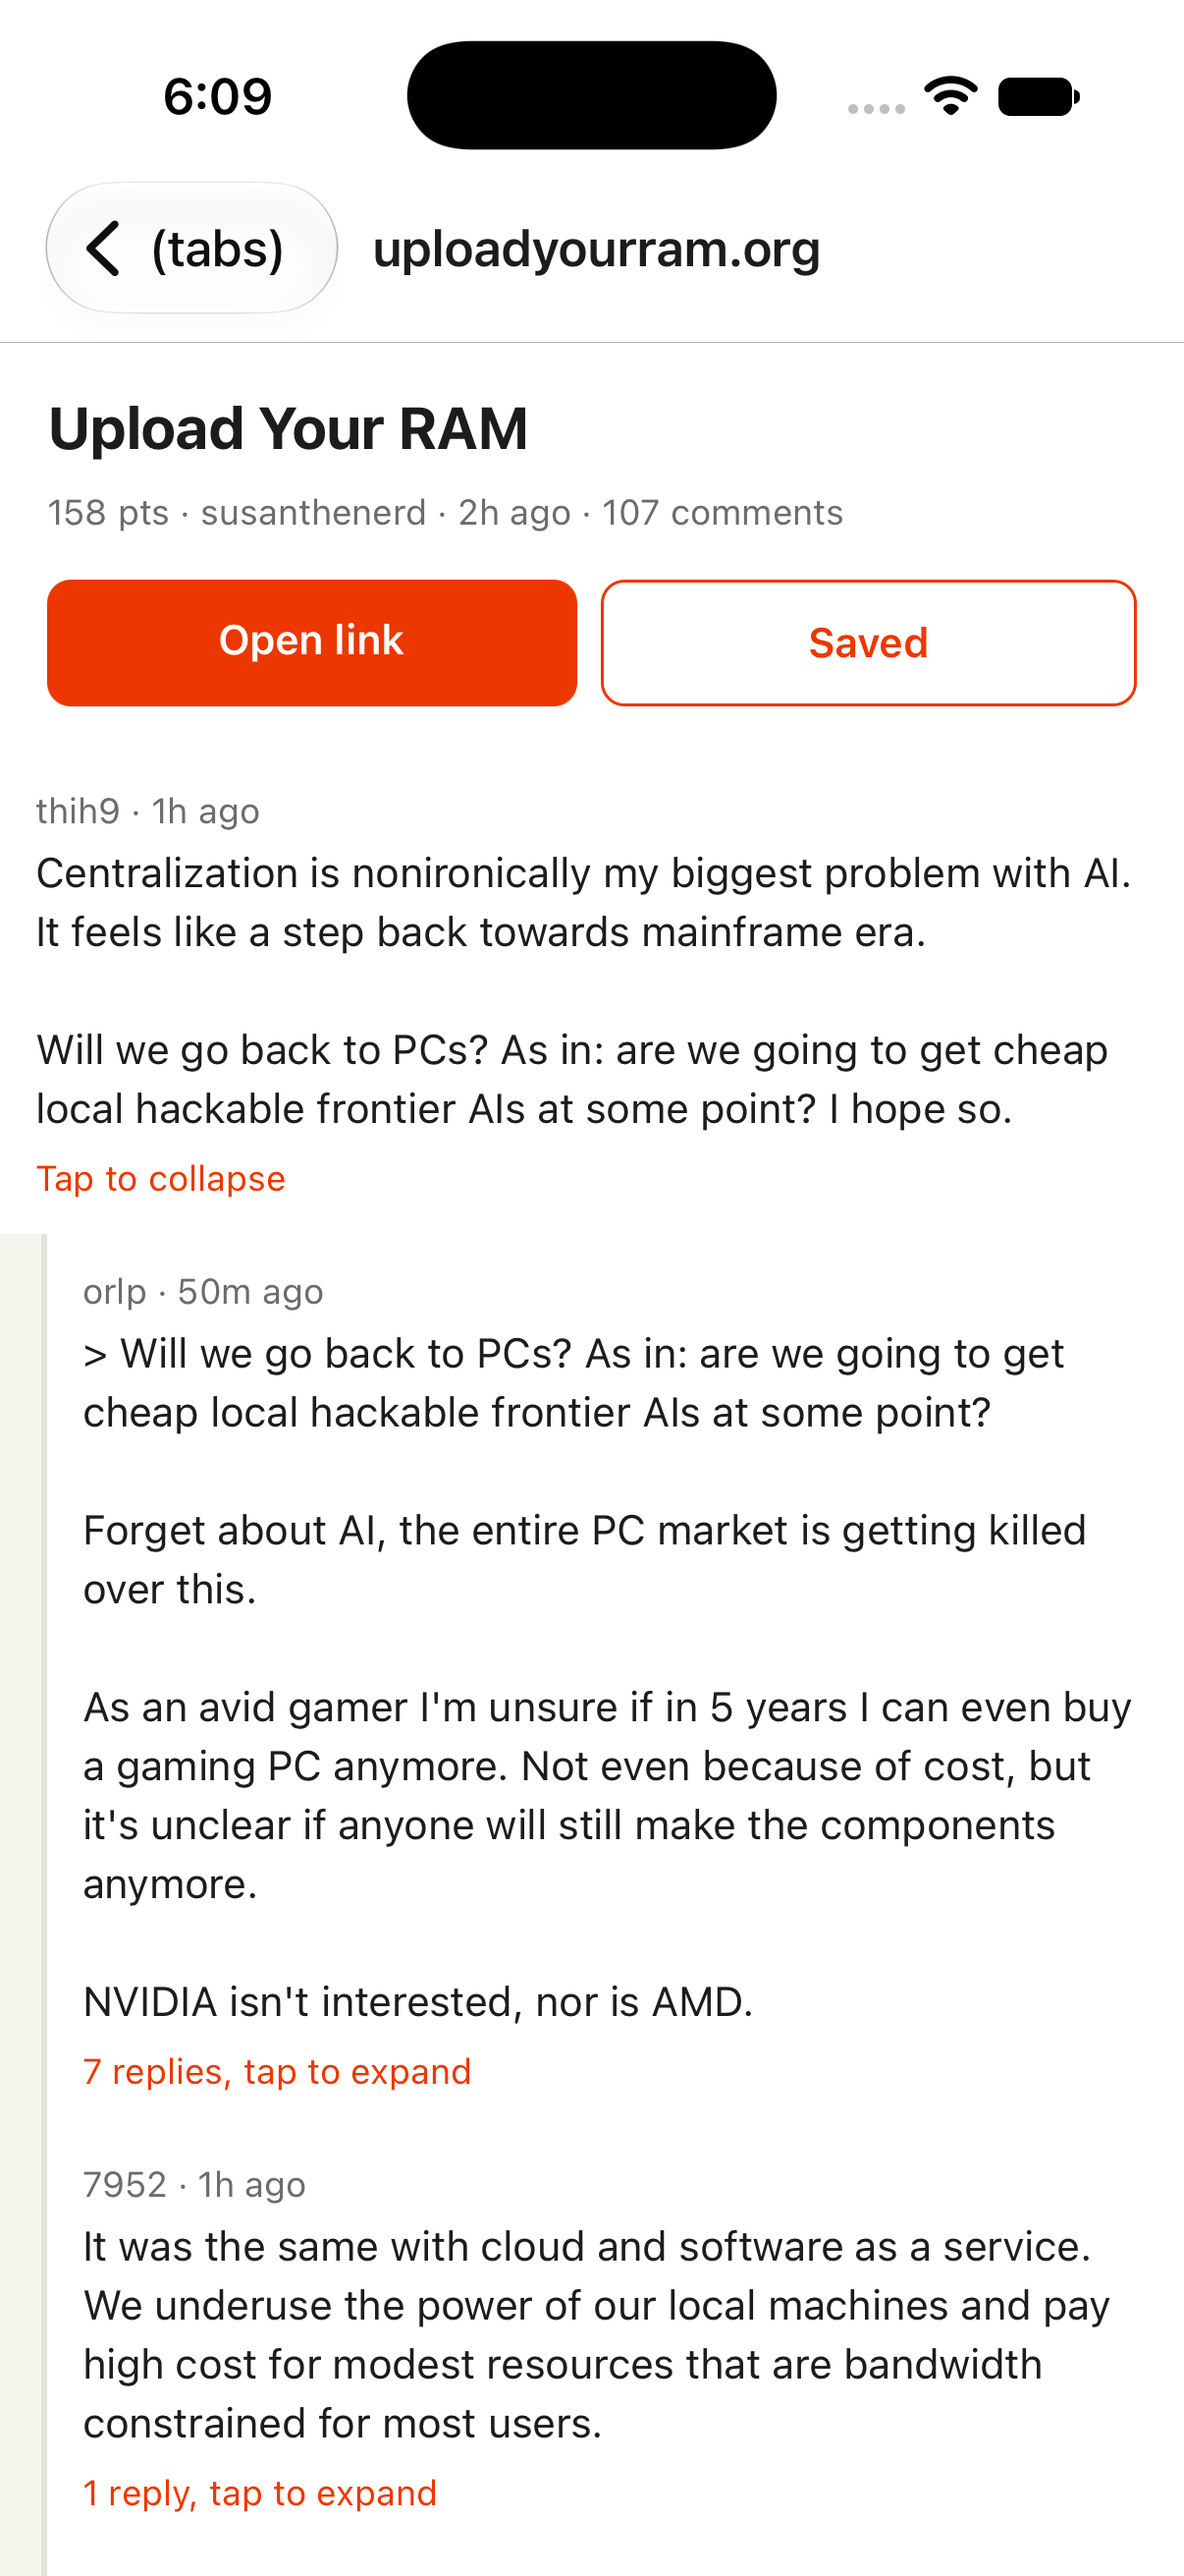
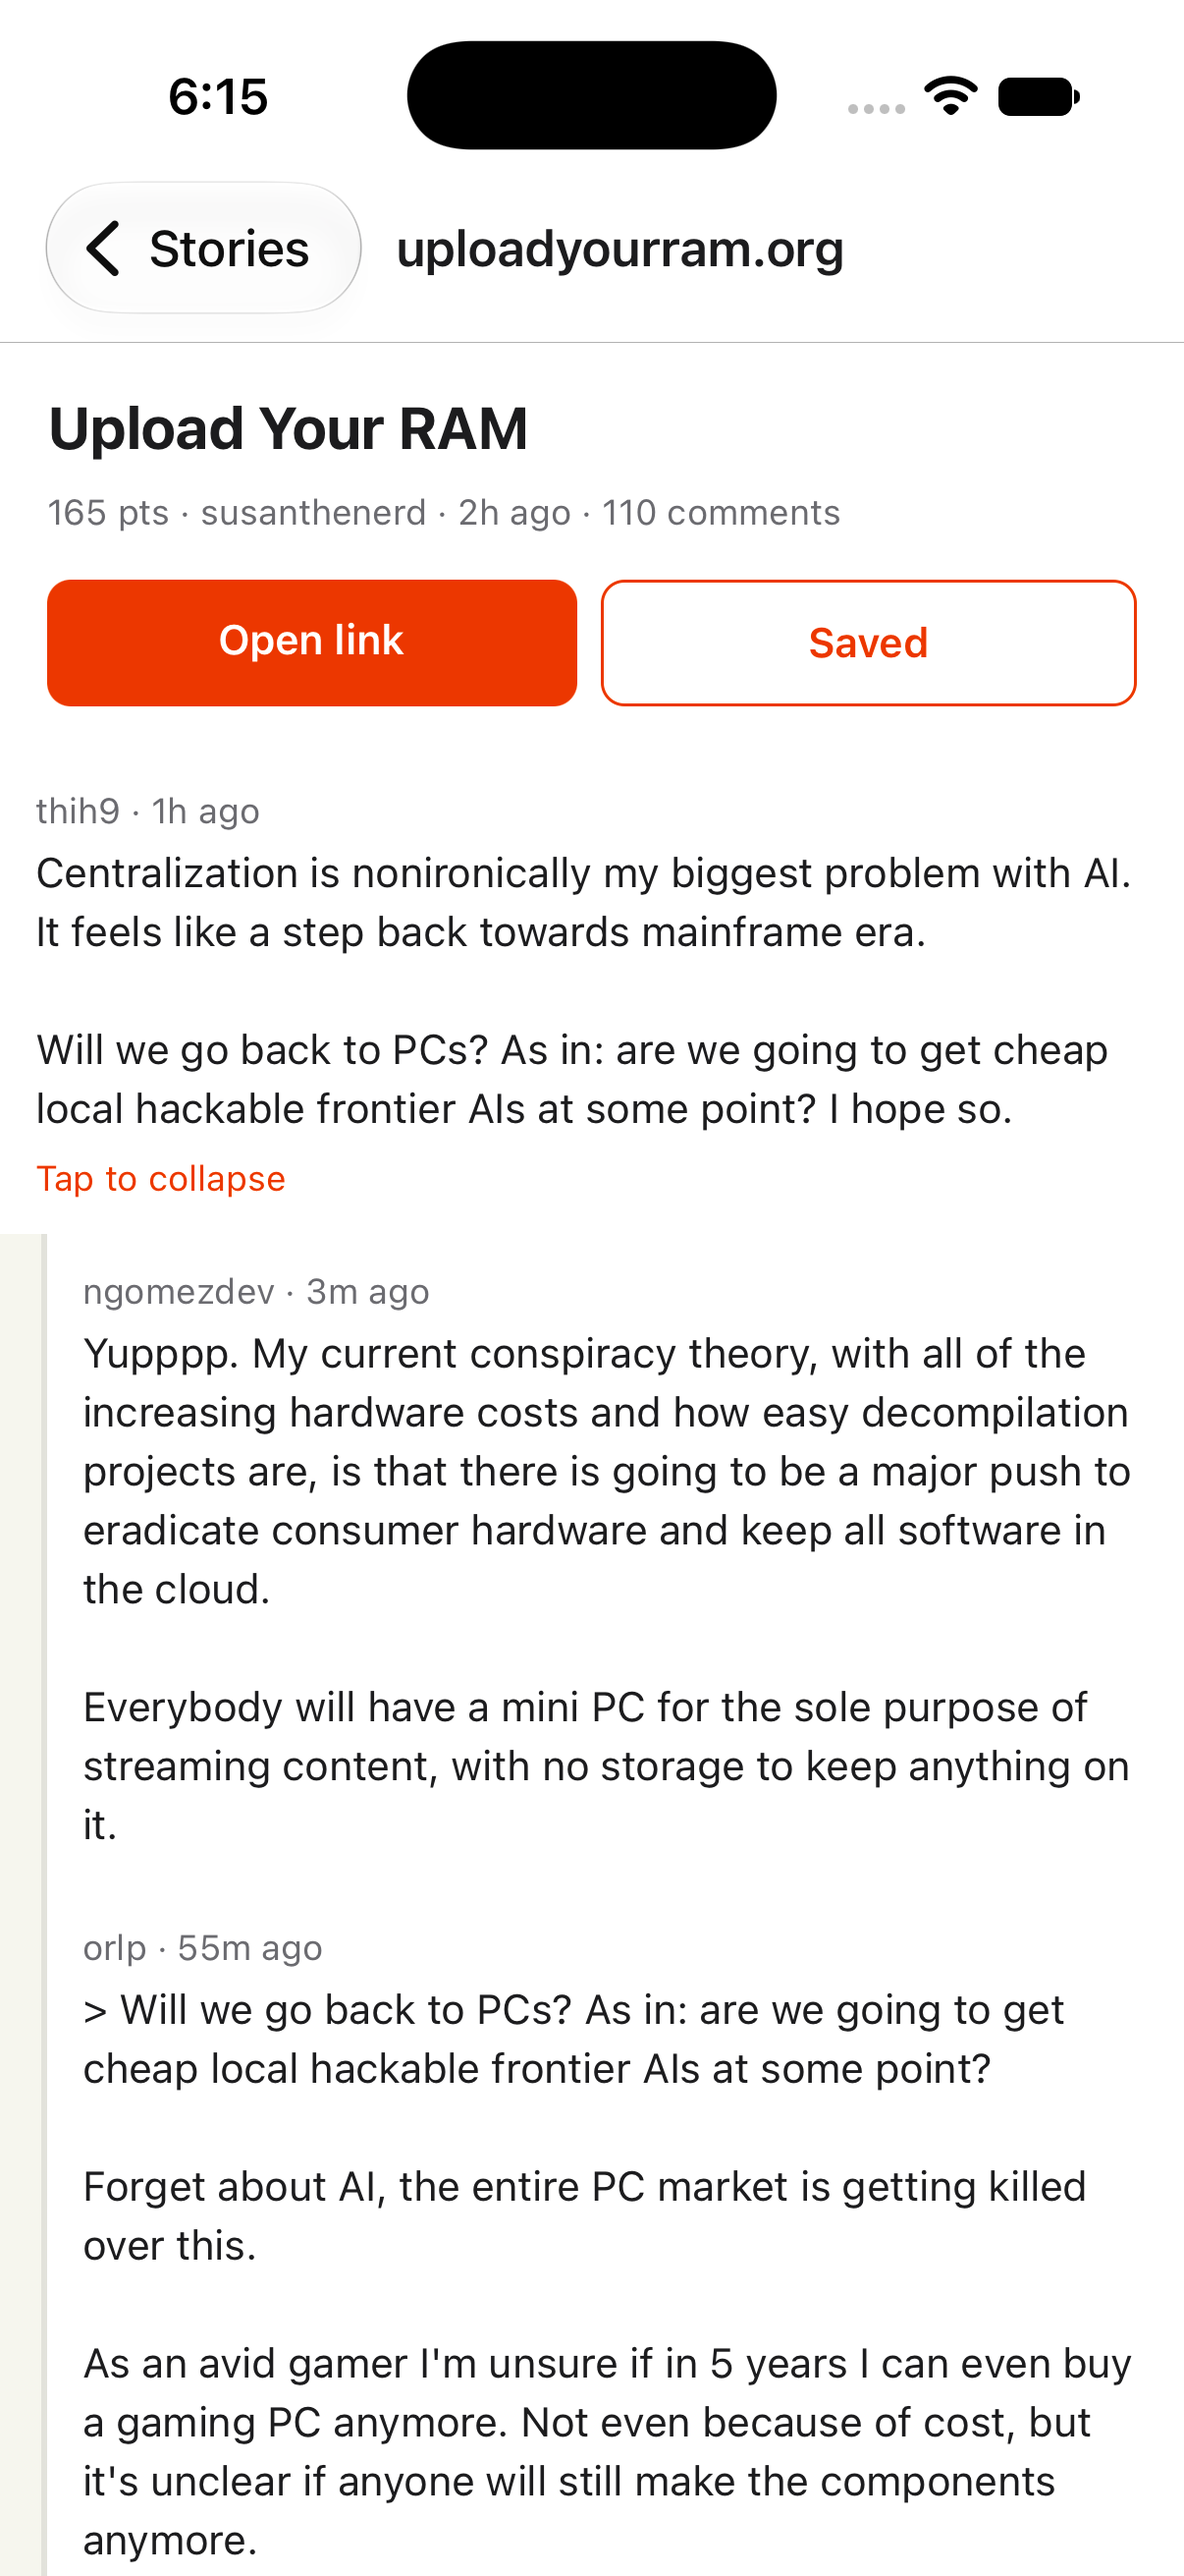
fix: story screen back label reads Stories; retake detail screenshot

diff --git a/app/_layout.tsx b/app/_layout.tsx
@@ -22,7 +22,7 @@ export default function RootLayout() {
         }}
       >
         <Stack.Screen name="(tabs)" options={{ headerShown: false }} />
-        <Stack.Screen name="story/[id]" options={{ title: 'Story' }} />
+        <Stack.Screen name="story/[id]" options={{ title: 'Story', headerBackTitle: 'Stories' }} />
       </Stack>
     </PersistQueryClientProvider>
   );
